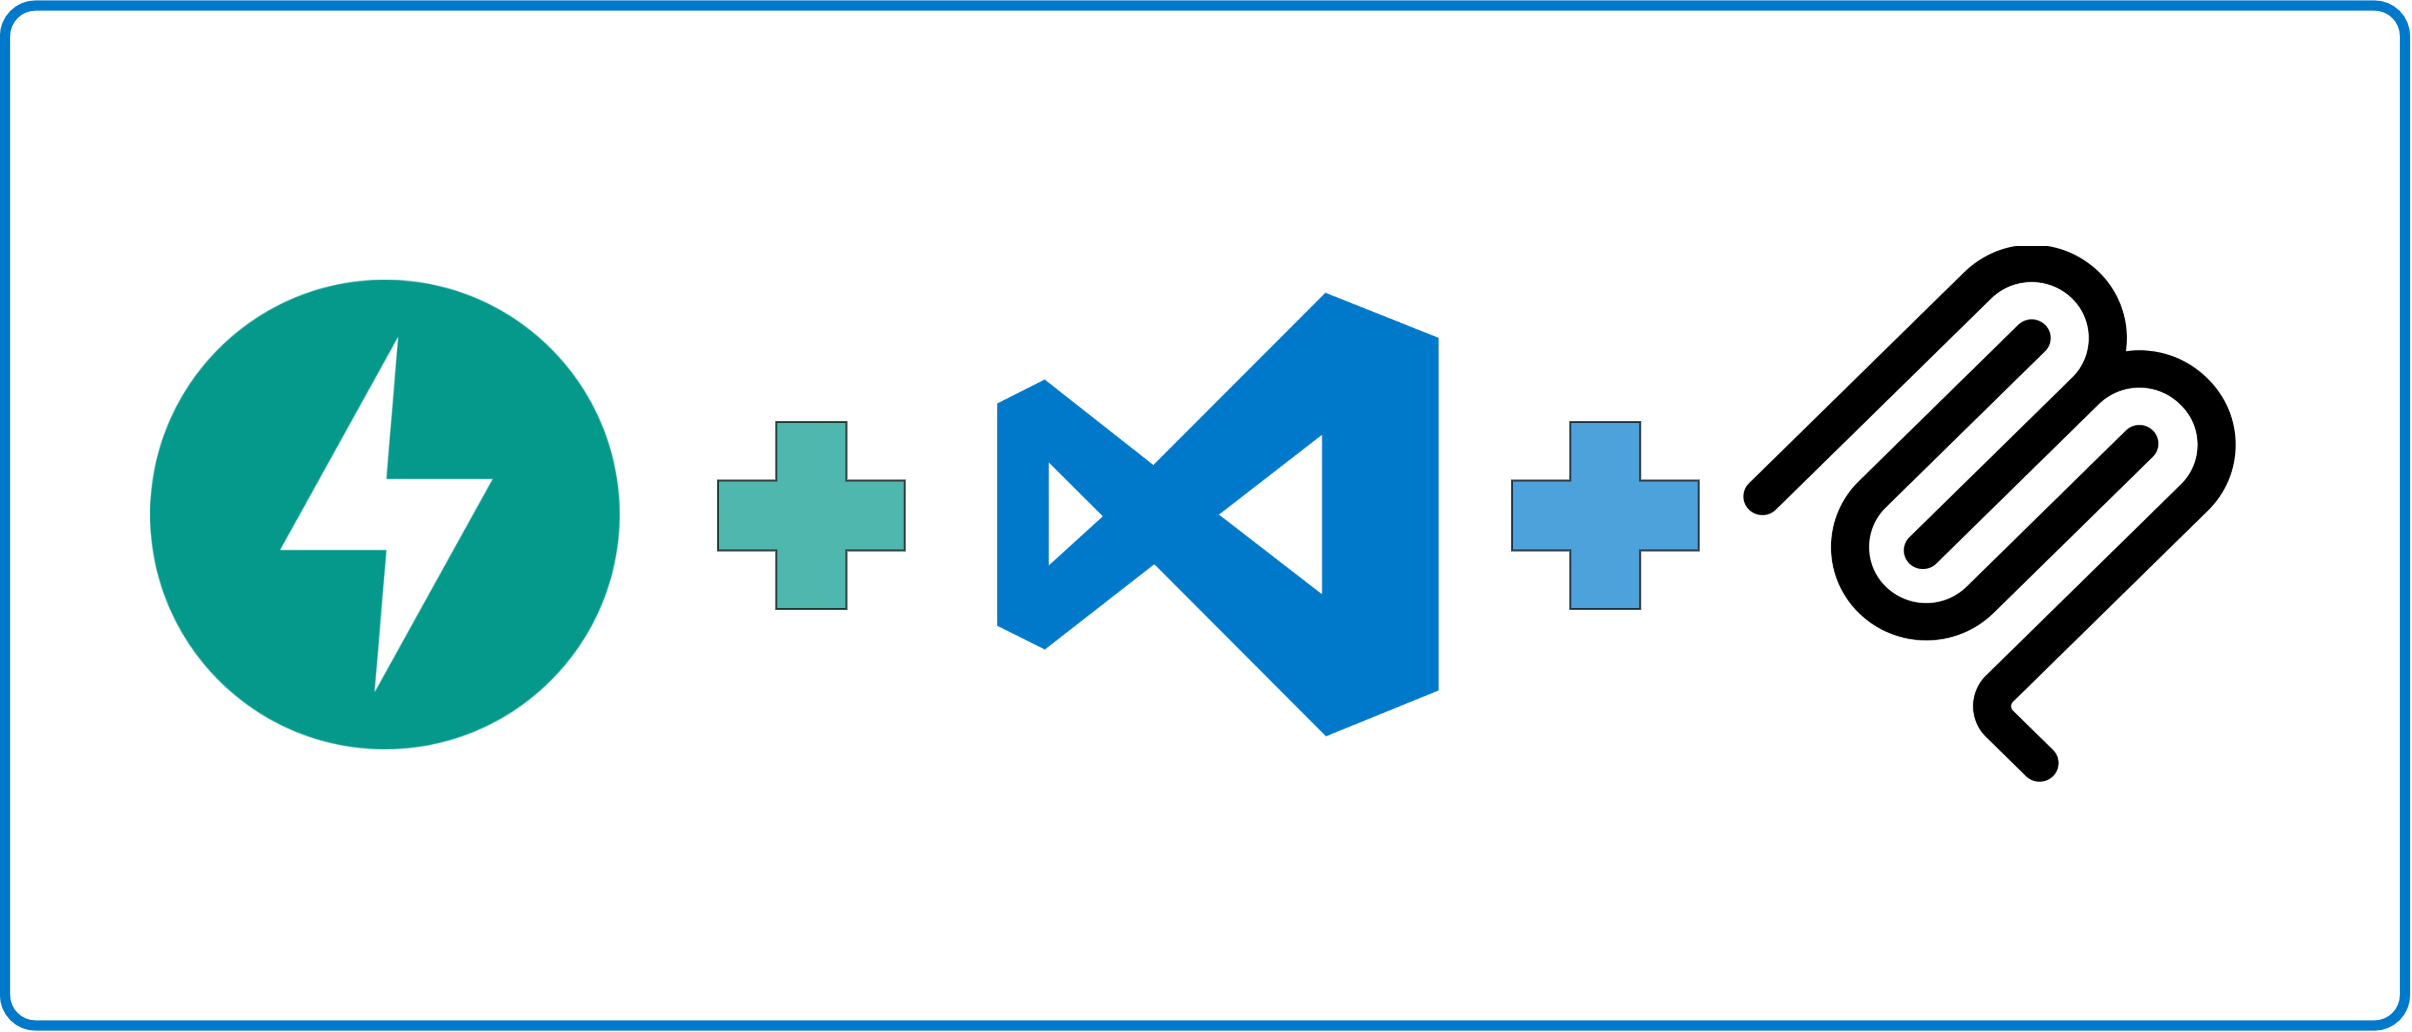
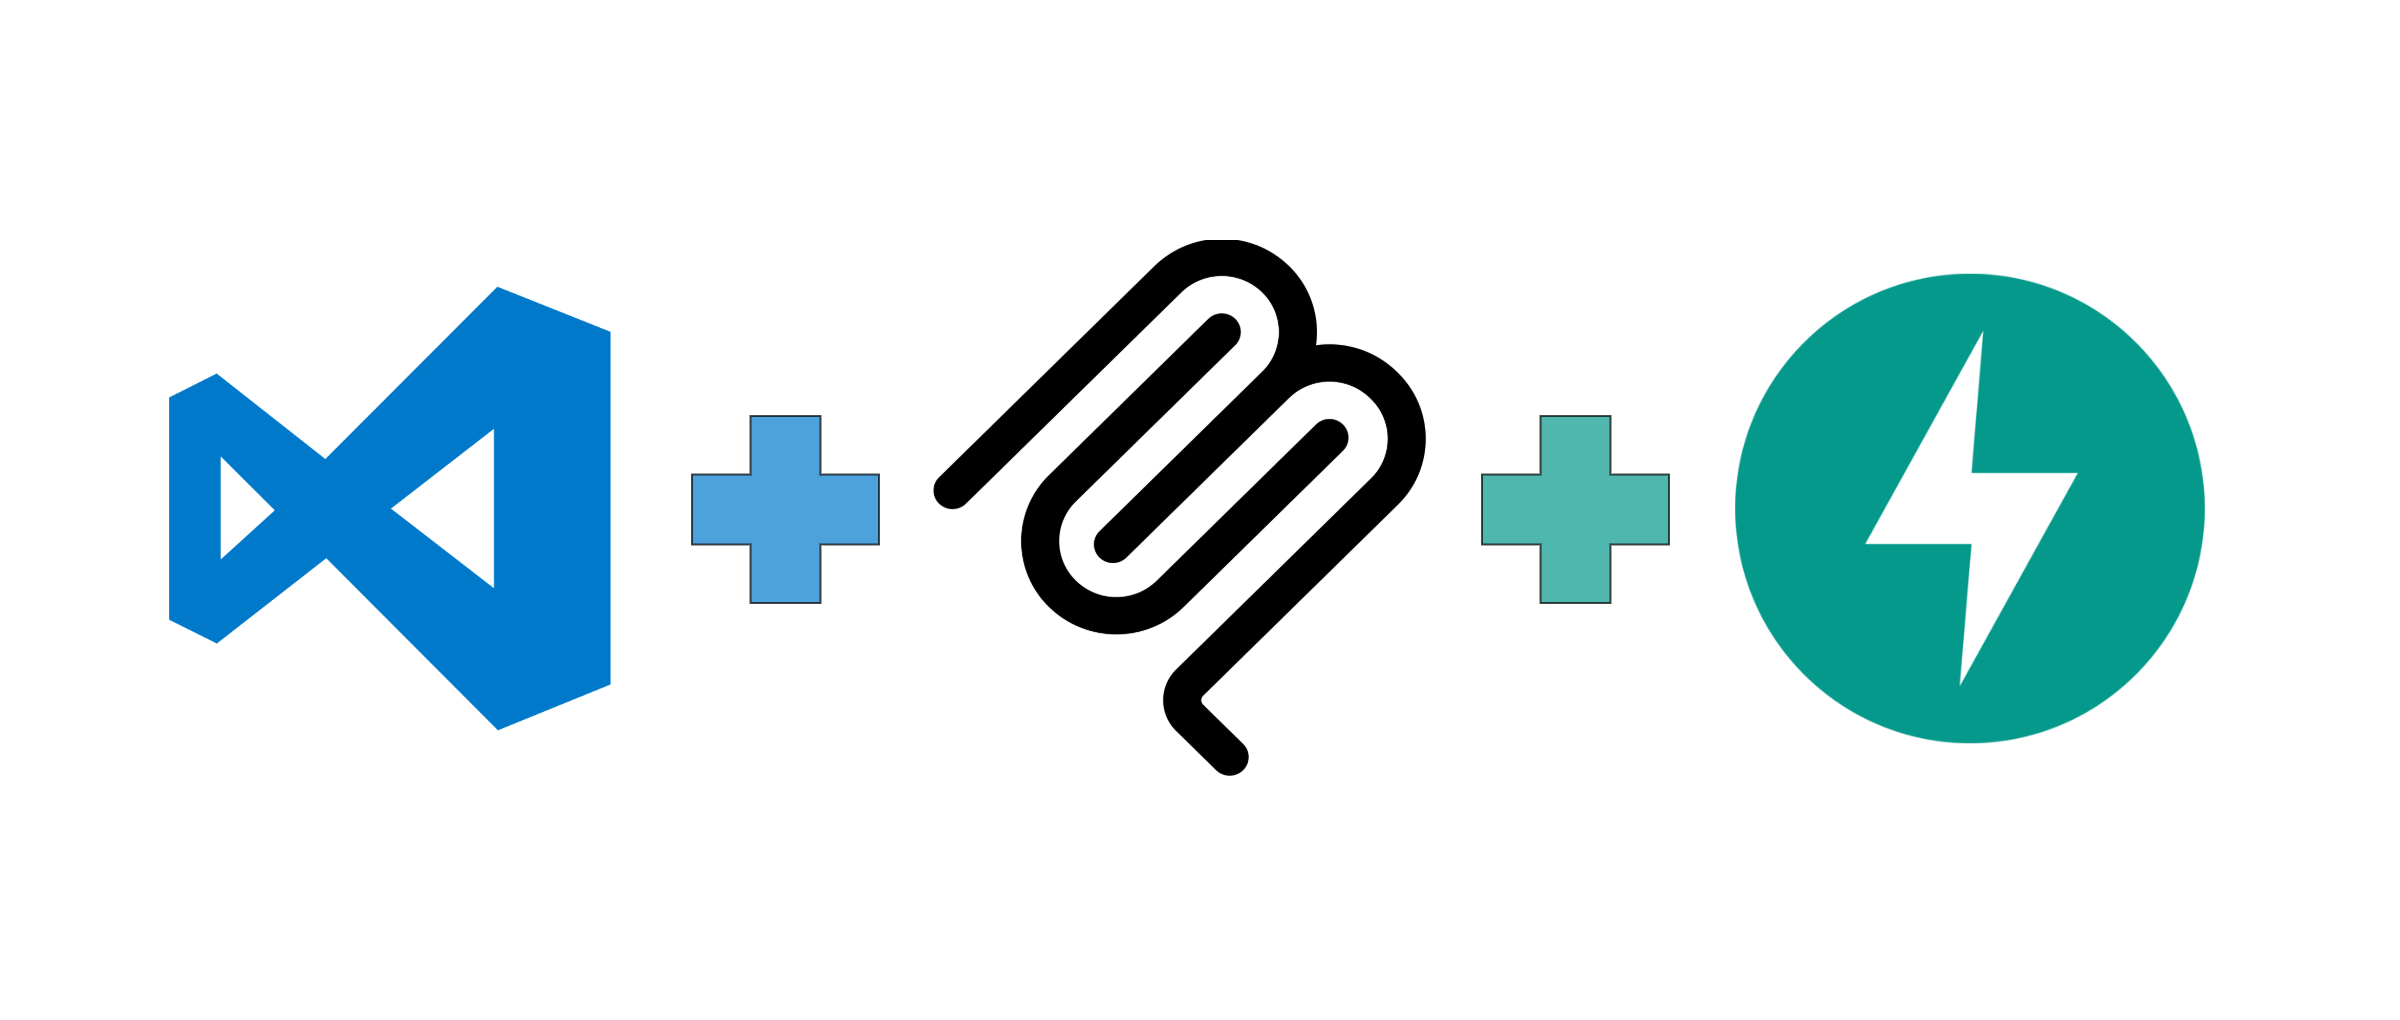
Update title and attachements

Changed region(s): [[0.0625, 0.2127, 0.9375, 0.7598], [0.0, 0.0, 1.0, 1.0]]

diff --git a/README.md b/README.md
@@ -1,4 +1,4 @@
-# VSCode with MCP - Chatting with Your API
+# VSCode + MCP: Chat with Your API using GitHub Copilot
 
 ## TL;DR
 
